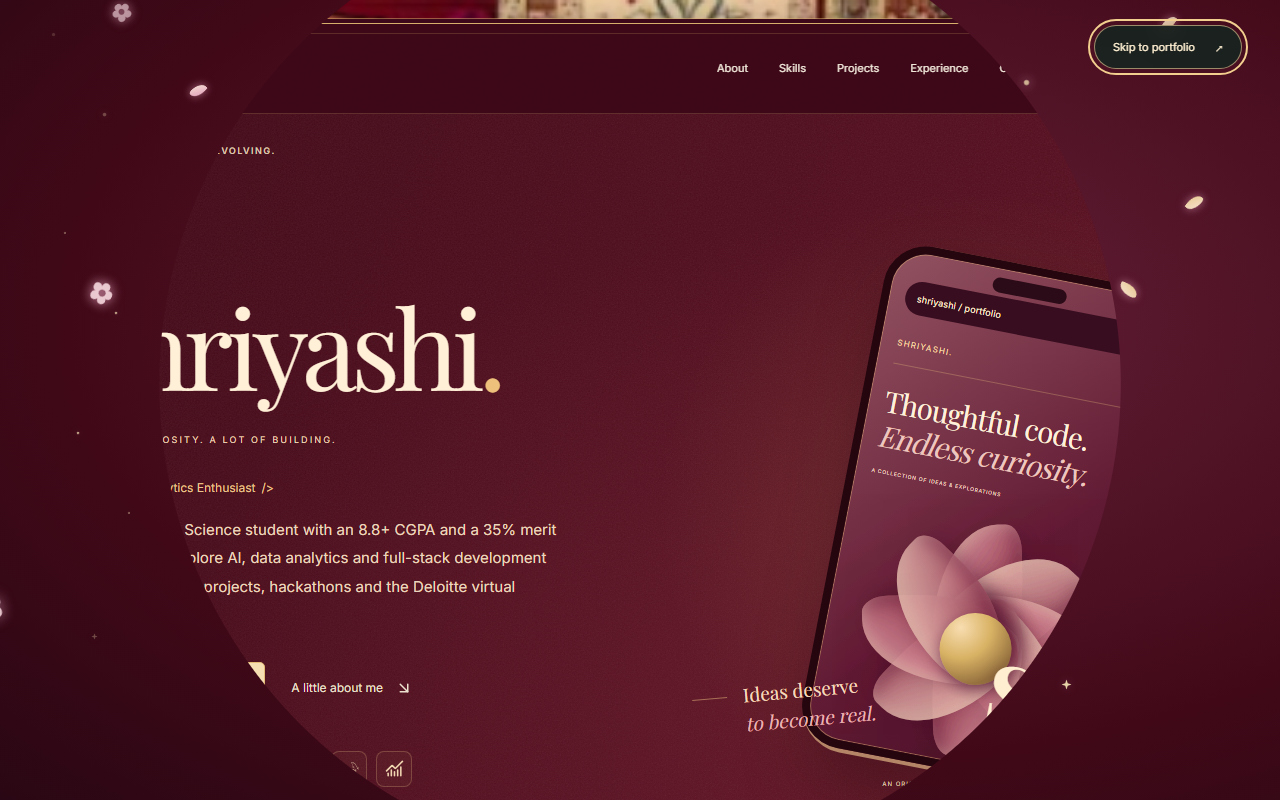
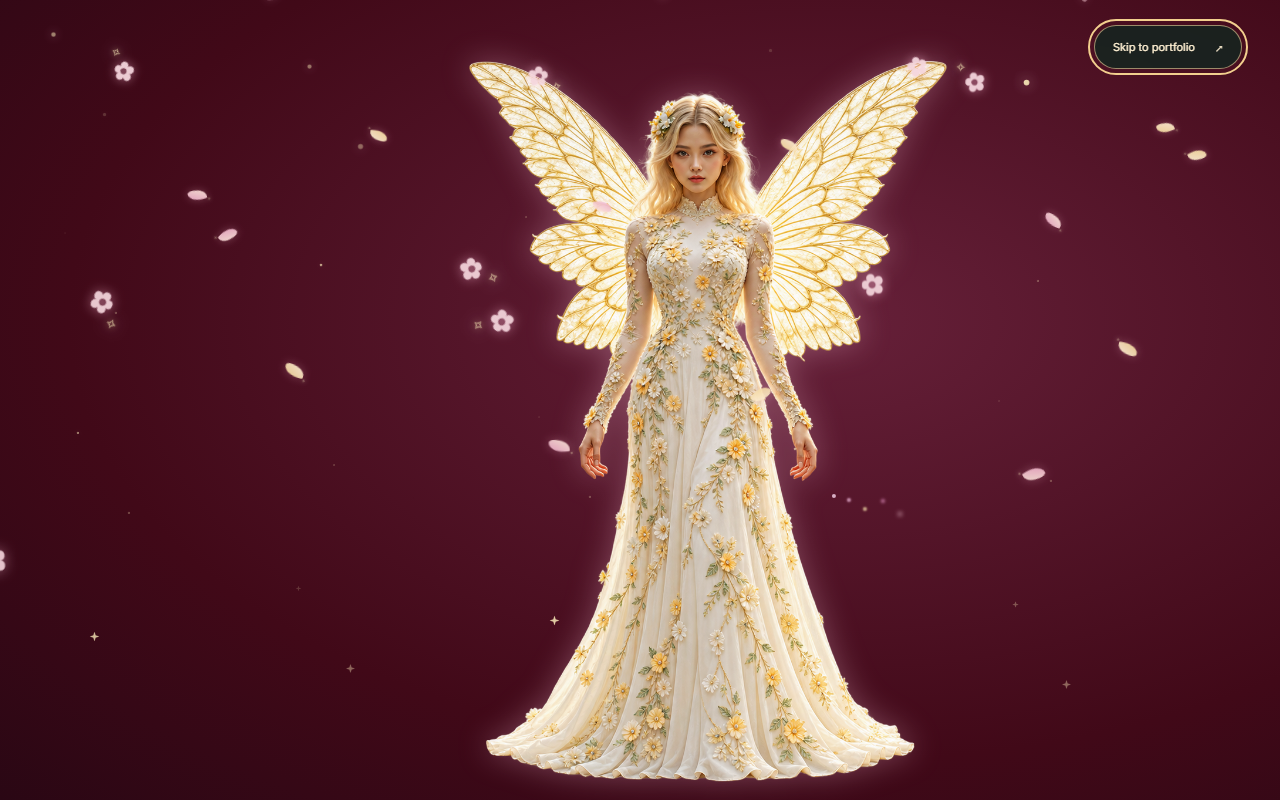
Keep fairy upright at full viewport height with sparkling flower flourish

diff --git a/src/styles/fairy-welcome.css b/src/styles/fairy-welcome.css
@@ -469,7 +469,7 @@
   --portfolio-reveal: 75vmax;
 }
 .fairy-orbit {
-  --fairy-size: min(46vh, 440px);
+  --fairy-size: 92dvh;
   left: 0;
   top: 0;
   width: var(--fairy-size);
@@ -497,7 +497,8 @@
   visibility: hidden;
 }
 .fairy-portrait {
-  animation: fairy-bank 1.05s ease-in-out 4;
+  animation: none;
+  transform: none;
 }
 .fairy-circle-guide,
 .welcome-wordmark,
@@ -567,12 +568,63 @@
 }
 @media (max-width: 600px) {
   .fairy-orbit {
-    --fairy-size: min(40vh, 300px);
+    --fairy-size: 92dvh;
     left: 0;
     top: 0;
   }
   .welcome-skip {
     top: 20px;
     right: 20px;
+  }
+}
+/* Full-height, upright fairy; a sparkle flourish precedes the portfolio reveal. */
+.fairy-welcome.is-blooming {
+  transition-delay: 0.35s;
+}
+.fairy-welcome.is-leaving {
+  transition-delay: 0s;
+}
+.fairy-portrait {
+  transform: none !important;
+  animation: none !important;
+}
+.whole-flower:after {
+  content: "✧";
+  position: absolute;
+  right: -12px;
+  top: -12px;
+  color: #fff2bd;
+  font:
+    18px/1 Georgia,
+    serif;
+  text-shadow:
+    0 0 10px #fff3c0,
+    0 0 20px #f5b8dc;
+  animation: flower-glitter 1.2s ease-in-out infinite;
+}
+.single-petal:after {
+  content: "";
+  position: absolute;
+  right: -4px;
+  top: -4px;
+  width: 4px;
+  height: 4px;
+  border-radius: 50%;
+  background: #fff1bf;
+  box-shadow: 0 0 7px #ffecc6;
+  animation: flower-glitter 1.4s ease-in-out infinite;
+}
+.is-blooming .falling-flower {
+  filter: drop-shadow(0 0 9px #fbd8d5);
+}
+@keyframes flower-glitter {
+  0%,
+  100% {
+    opacity: 0.35;
+    transform: scale(0.7);
+  }
+  50% {
+    opacity: 1;
+    transform: scale(1.1);
   }
 }

diff --git a/src/components/ui/FairyWelcome.tsx b/src/components/ui/FairyWelcome.tsx
@@ -22,8 +22,9 @@ export default function FairyWelcome({
     const resize = () => {
       const w = window.innerWidth,
         h = window.innerHeight;
+      const flightY = (value: number) => h * (0.5 + (value - 0.5) * 0.16);
       setFlightPath(
-        `path("M ${1.45 * w} ${0.5 * h} C ${1.05 * w} ${0.23 * h}, ${0.5 * w} ${0.275 * h}, ${0.57 * w} ${0.48 * h} C ${0.62 * w} ${0.71 * h}, ${1.06 * w} ${0.68 * h}, ${0.94 * w} ${0.475 * h} C ${0.8 * w} ${0.2 * h}, ${0.2 * w} ${0.26 * h}, ${0.3 * w} ${0.5 * h} C ${0.42 * w} ${0.745 * h}, ${0.78 * w} ${0.675 * h}, ${0.63 * w} ${0.465 * h} C ${0.45 * w} ${0.24 * h}, ${0.12 * w} ${0.31 * h}, ${-0.45 * w} ${0.5 * h}")`,
+        `path("M ${1.45 * w} ${flightY(0.5)} C ${1.05 * w} ${flightY(0.23)}, ${0.5 * w} ${flightY(0.275)}, ${0.57 * w} ${flightY(0.48)} C ${0.62 * w} ${flightY(0.71)}, ${1.06 * w} ${flightY(0.68)}, ${0.94 * w} ${flightY(0.475)} C ${0.8 * w} ${flightY(0.2)}, ${0.2 * w} ${flightY(0.26)}, ${0.3 * w} ${flightY(0.5)} C ${0.42 * w} ${flightY(0.745)}, ${0.78 * w} ${flightY(0.675)}, ${0.63 * w} ${flightY(0.465)} C ${0.45 * w} ${flightY(0.24)}, ${0.12 * w} ${flightY(0.31)}, ${-0.45 * w} ${flightY(0.5)}")`,
       );
     };
     resize();
@@ -36,7 +37,7 @@ export default function FairyWelcome({
         phase === "leaving"
           ? onComplete()
           : setPhase(phase === "flying" ? "blooming" : "leaving"),
-      phase === "flying" ? 4200 : phase === "blooming" ? 1100 : 100,
+      phase === "flying" ? 4200 : phase === "blooming" ? 1600 : 100,
     );
     return () => clearTimeout(timeout);
   }, [phase, onComplete]);

diff --git a/tests/e2e/fairy-welcome.spec.ts b/tests/e2e/fairy-welcome.spec.ts
@@ -61,7 +61,17 @@ test("transparent fairy circles, sprinkles flowers and reveals the site", async 
   expect(
     Math.max(...trajectory.map((point) => point.y)) -
       Math.min(...trajectory.map((point) => point.y)),
-  ).toBeGreaterThan(viewport.height * 0.22);
+  ).toBeGreaterThan(viewport.height * 0.02);
+  const fairySize = await intro
+    .locator(".fairy-portrait")
+    .evaluate((el) => ({
+      height: el.clientHeight,
+      transform: getComputedStyle(el).transform,
+      animation: getComputedStyle(el).animationName,
+    }));
+  expect(fairySize.height).toBeGreaterThanOrEqual(viewport.height * 0.9);
+  expect(fairySize.transform).toBe("none");
+  expect(fairySize.animation).toBe("none");
   expect(
     await page.locator("main").evaluate((el) => !!el.closest("[inert]")),
   ).toBe(true);
@@ -74,7 +84,7 @@ test("transparent fairy circles, sprinkles flowers and reveals the site", async 
   await expect(intro.locator("#fairy-welcome-description")).toHaveText(
     "A shower of flowers, and a new beginning.",
   );
-  await page.clock.runFor(1300);
+  await page.clock.runFor(1800);
   await expect(intro).toHaveCount(0);
   expect(
     await page.locator("main").evaluate((el) => !!el.closest("[inert]")),

diff --git a/DECISIONS.md b/DECISIONS.md
@@ -1,5 +1,7 @@
 # Implementation decisions
 
+- The user requested an upright, tall fairy covering the website, followed by sparkling flowers and then the page. Increased the character to 92dvh on desktop and mobile, removed all banking/tilting, kept offset rotation at zero, and compressed the vertical flight range so the full-height figure remains in frame while travelling right to left. Added gold sparkle details to flowers and a 350ms flourish before the circular page reveal. Total intro is about 5.9 seconds. Tests verify a height of at least 90% of the viewport and no character rotation or animation transform.
+
 - The user clarified that this must be a transition across the whole site: enter from the right, fly in large circular/looping motion toward the left, then open the portfolio. Replaced the fixed central orbit with a viewport-scaled CSS motion path consisting of broad Bézier loops. The fairy starts beyond the right boundary and ends beyond the left boundary, with upright orientation and gentle banking. Removed the centred guide and visible welcome headline. After the 4.2-second crossing, the actual underlying portfolio is revealed with a one-second expanding circular mask; input is restored after the transition. Browser tests sample actual animated positions to verify right-to-left travel and vertical loop extent. A recorded local video demonstrates the complete transition.
 
 - The user clarified that only the fairy should be visible, with no photographic background, and that she must circle before revealing the site. Replaced the forest composition with a true-alpha, reference-inspired character asset (`fairy-cutout.png`), preserving the blonde/floral/golden-wing look with a fully lined ivory gown. The character follows two 1.6-second circular orbits with matching counter-rotation to stay upright. Flower fall starts after the circles and continues through the website dissolve. The forest reference is retained for provenance but is no longer displayed. Verified alpha range 0–255 and transparent corner pixels; no rectangular background is simulated with a colour mask. Critical image preloading is gated to visitors without reduced-motion preference.

diff --git a/README.md b/README.md
@@ -10,7 +10,7 @@ Browser contact tests start an isolated second development server with a mock en
 
 ## Magical opening
 
-A reference-inspired transparent fairy enters from beyond the **right edge**, travels in broad looping arcs across the **entire viewport toward the left**, and exits beyond the left edge. Sparkles and flowers accompany her. The actual portfolio then opens through an expanding circular wipe. There is no centred orbit card, forest photograph or separate welcome headline. The full-page transition lasts about 5.4 seconds and is not a network-loading indicator.
+A reference-inspired transparent fairy enters from beyond the **right edge**, travels in broad looping arcs across the **entire viewport toward the left**, and exits beyond the left edge. She remains upright without tilting and is sized to 92% of the viewport height. The shallow vertical flight keeps her tall silhouette in view. Glowing flower petals and sparkling blossoms accompany her, with a short sparkle flourish before the actual portfolio opens through an expanding circular wipe. There is no centred orbit card, forest photograph or separate welcome headline. The full-page transition lasts about 5.9 seconds and is not a network-loading indicator.
 
 Visitors can choose **Skip to portfolio** or press **Escape**. Keyboard focus stays within the welcome while it is open, then returns to the site. Scrolling and background interaction are restored on dismissal. Visitors who prefer reduced motion open the portfolio immediately. Ordinary in-page navigation does not replay the welcome.
 

diff --git a/artifacts/verification.md b/artifacts/verification.md
@@ -1,5 +1,9 @@
 # Verification — 25 October 2026
 
+## Upright full-height fairy and flower sparkle — 27 October 2026
+
+The character now uses 92% of viewport height and remains upright with no banking or image rotation. The right-to-left path has reduced vertical excursion to accommodate the tall figure. Flowers include glowing sparkle details, and a short flourish precedes the circular portfolio reveal. Lint, production build and all five focused browser tests passed. Browser assertions check the actual rendered height, lack of rotation, cross-screen travel, transparent asset, phase timings and accessibility. Updated desktop/mobile screenshots and the full recorded transition were reviewed.
+
 ## Full-viewport right-to-left transition correction — 27 October 2026
 
 Replaced the centred circle with an off-screen-right to off-screen-left, viewport-wide looping motion path. The portfolio itself opens through a circular mask after the fairy crosses the screen. Lint, production build and all five focused browser tests passed. Tests sample actual animation positions to verify that the fairy begins right of the viewport, exits left of it, and makes substantial vertical loops. Desktop and mobile accessibility, transparency, Skip/Escape, reduced motion and phase timing are covered. Recorded `artifacts/fairy-cross-screen.webm` and visually reviewed the crossing and circular reveal. This supersedes the fixed central orbit described below.
